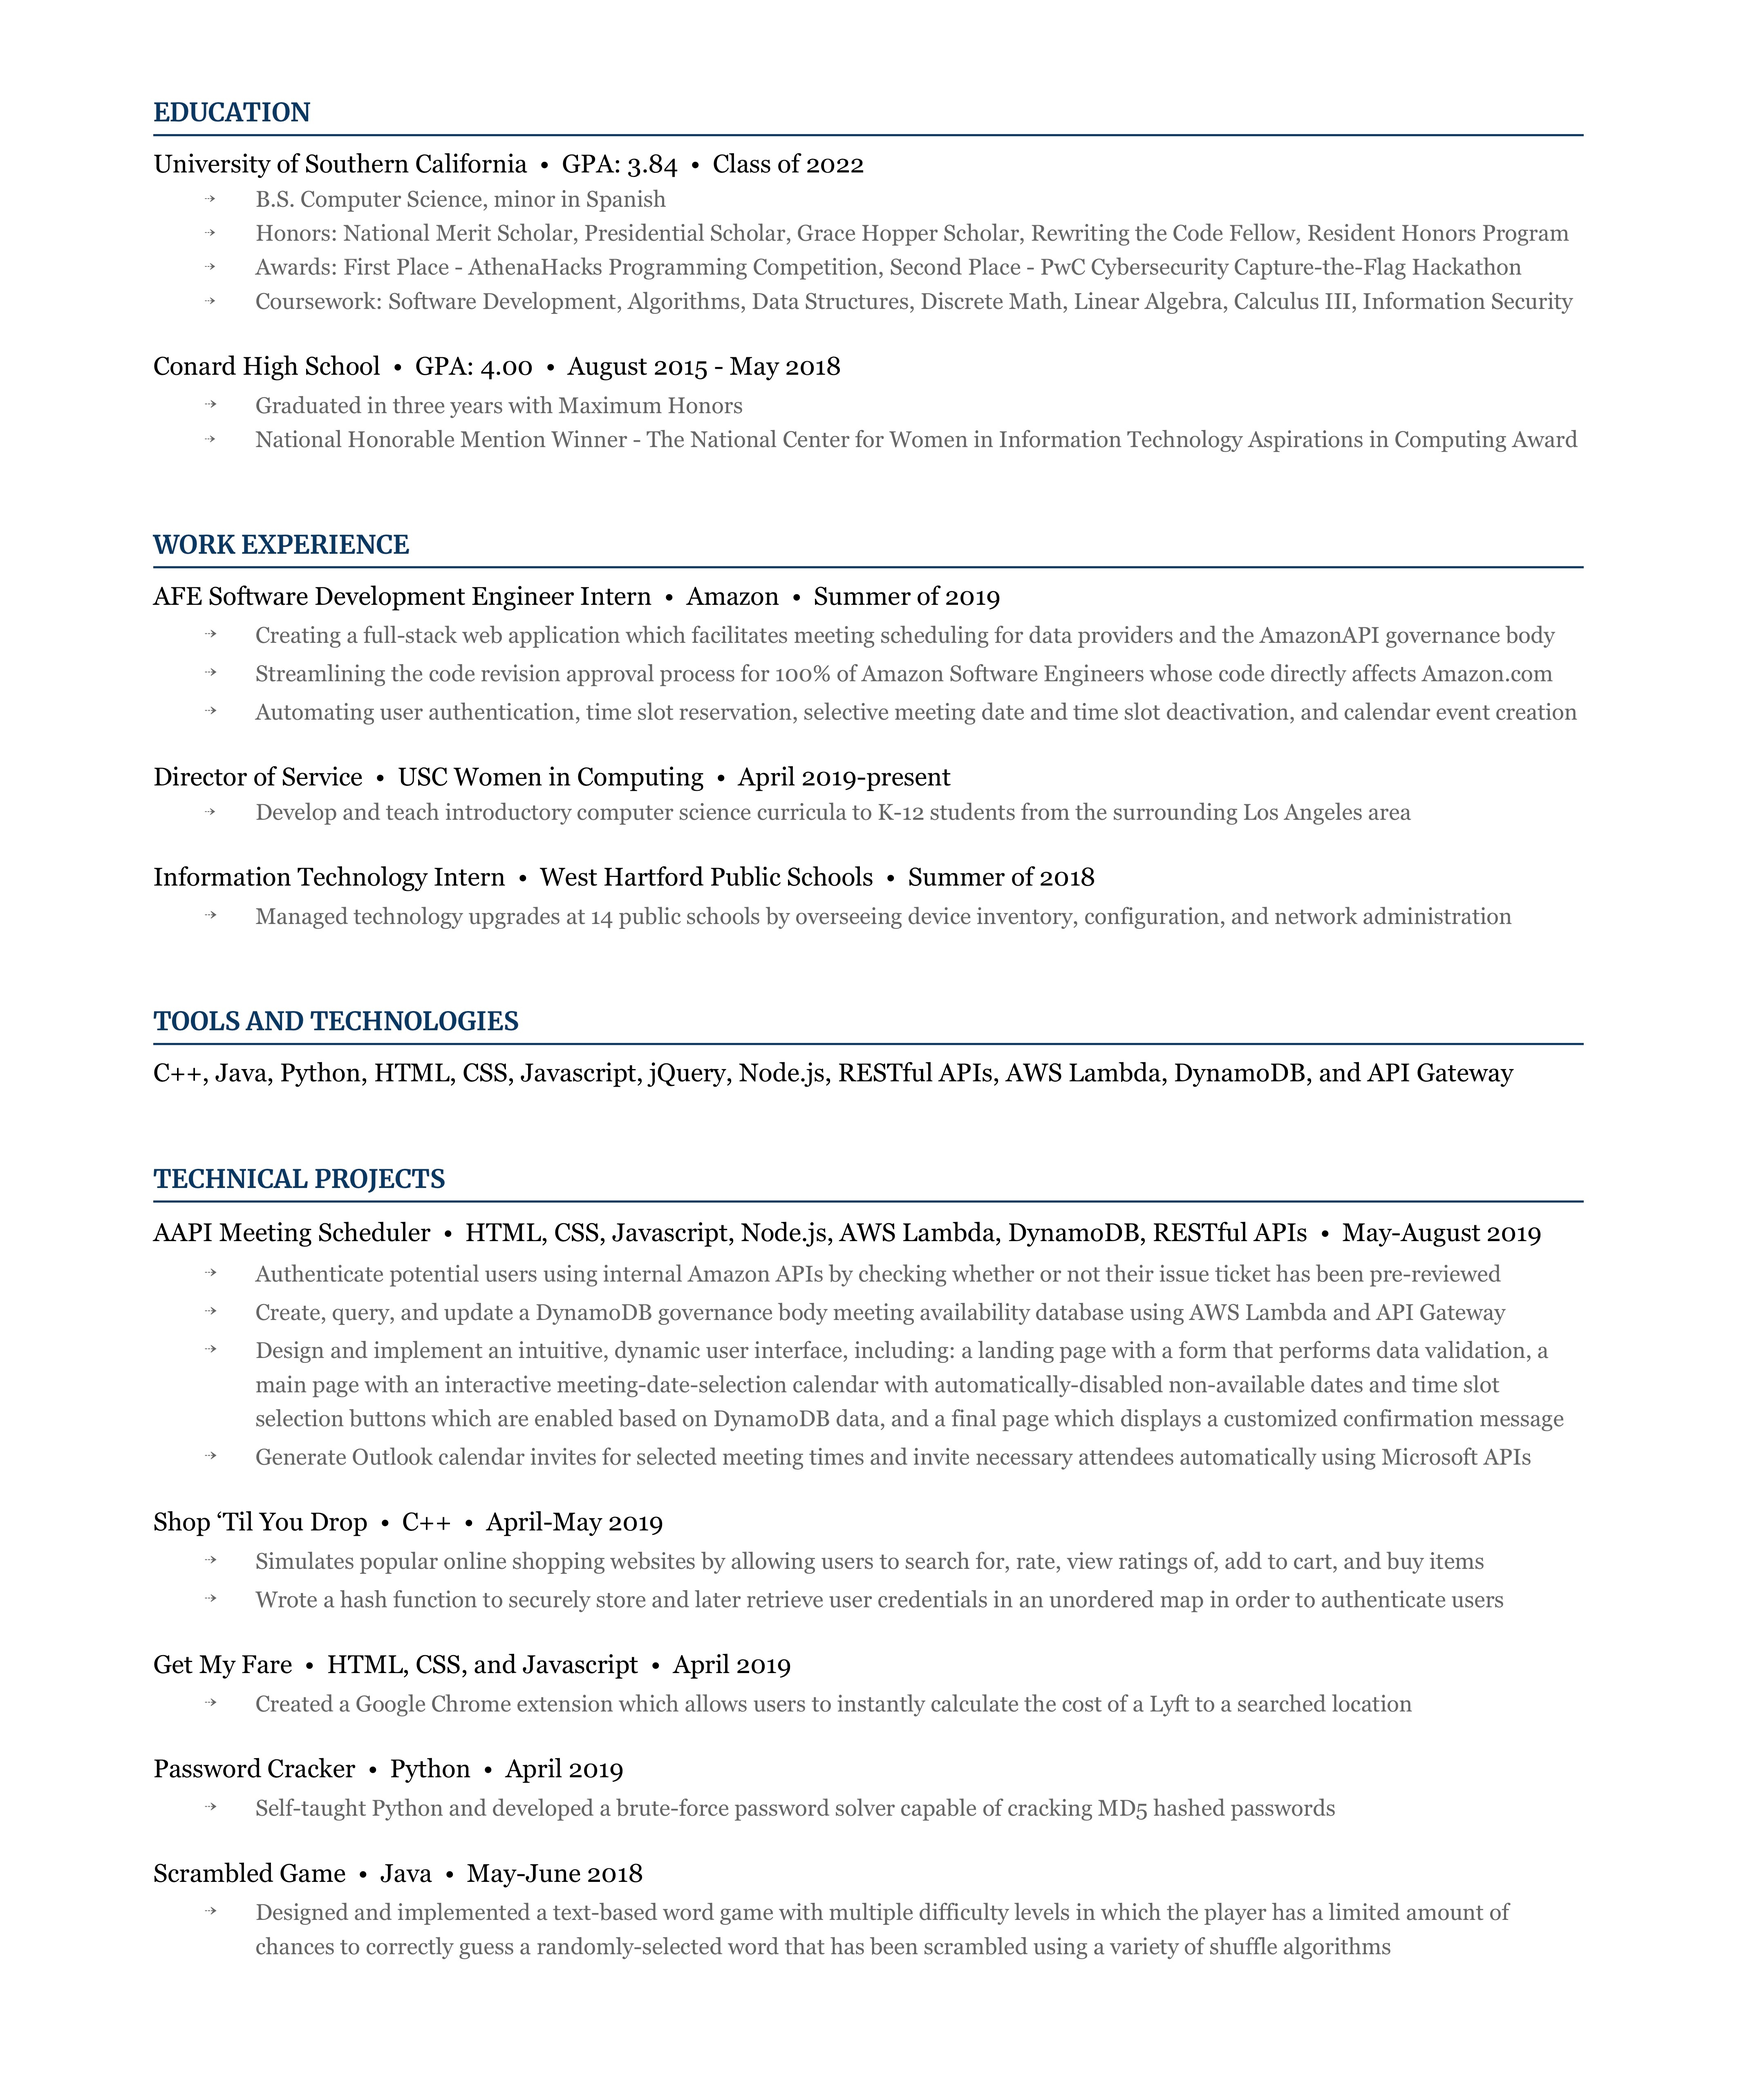
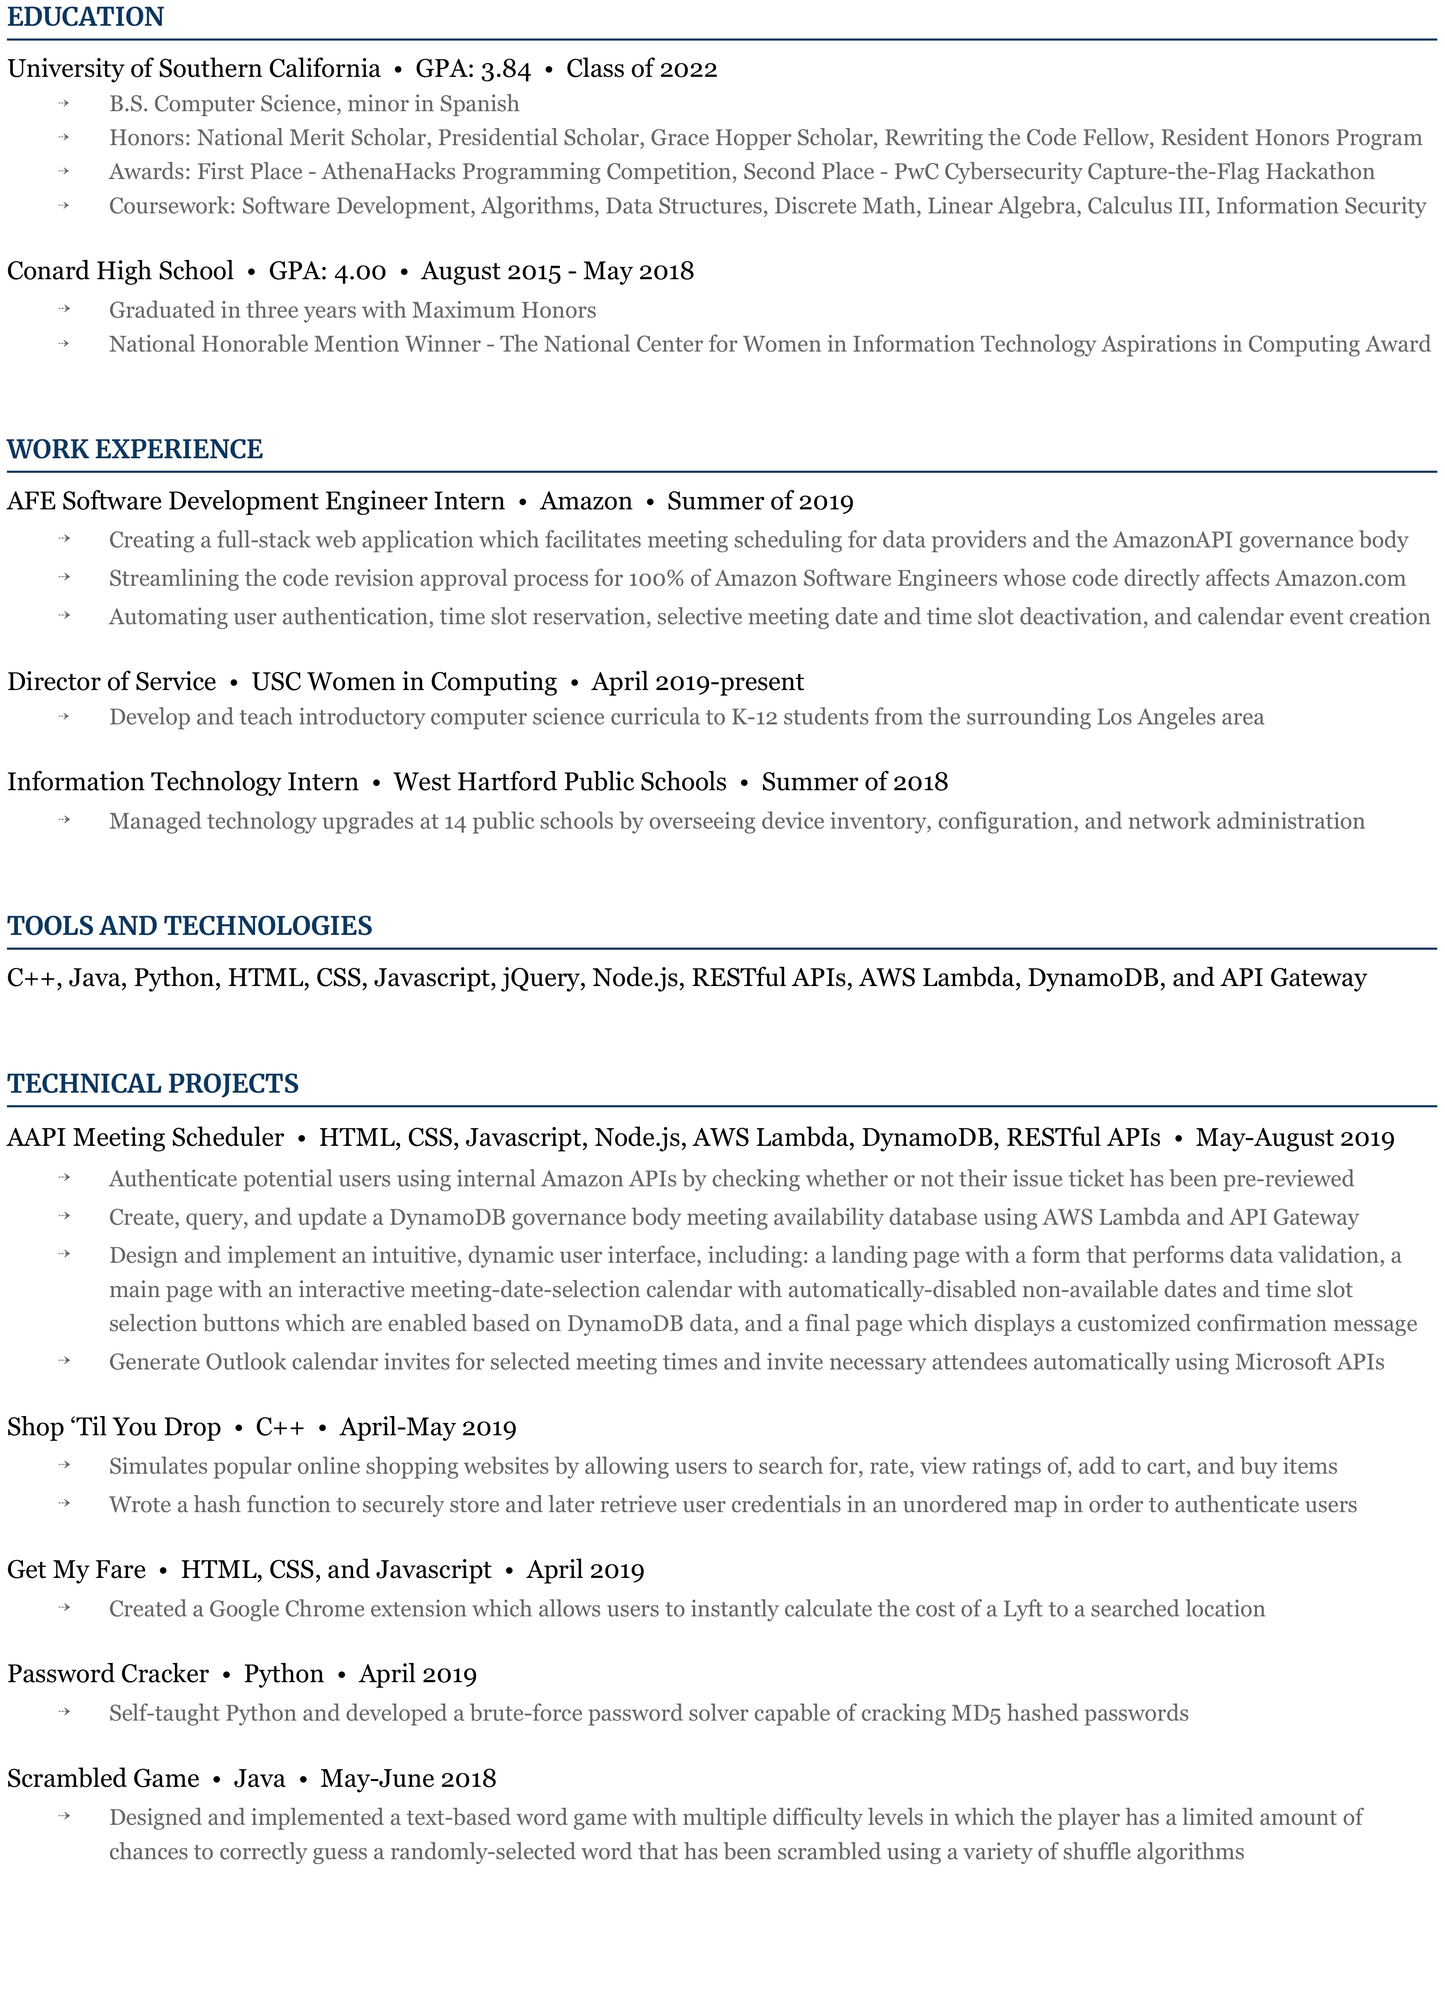
updated resume and nav bar, added text to about page, added contact info

Changed region(s): [[0.0, 0.0, 0.9644, 0.9367]]

diff --git a/about.html b/about.html
@@ -15,21 +15,41 @@
 		<!-- would be cool to have theme change on name click -->
 		<!-- switch stylesheet, resume img, pic of me for new theme -->
 		<ul class="nav-bar">
-			<li><a href="index.html">Home</a></li>
-			<li><a href="about.html">About Me</a></li>
+			<li><a href="about.html">About</a></li>
 			<li><a href="resume.html">Resume</a></li>
 			<li><a href="projects.html">Projects</a></li>
 			<li><a href="news.html">News</a></li>
+			<li><a href="contact.html">Contact</a></li>
 		</ul>
 		<ul class="nav-bar">
-			<li><a href="https://github.com/AvaDeLaCruz" target="_blank">GitHub</a></li>
-			<li><a href="https://www.linkedin.com/in/ava-delacruz/" target="_blank">LinkedIn</a></li>
-			<li><a href="https://www.facebook.com/profile.php?id=100010405683762" target="_blank">Facebook</a></li>
+			<li><a href="https://github.com/AvaDeLaCruz" target="_blank" class="github-link">GitHub</a></li>
+			<li><a href="https://www.linkedin.com/in/ava-delacruz/" target="_blank" class="linkedin-link">LinkedIn</a></li>
+			<li><a href="https://www.facebook.com/people/Ava-De-La-Cruz/100010405683762" target="_blank" class="facebook-link">Facebook</a></li>
 			<li><a href="https://open.spotify.com/user/goaliegirl333dlc?si=h1vnB1RhSR-5GSV3aX1ArQ
-" target="_blank">Spotify</a></li>
+" target="_blank" class="spotify-link">Spotify</a></li>
 		</ul>
+		<h2  class="first-paragraph">	HI, I'M AVA.</h2>
+		<h3>I'm passionate about learning, encouraging diversity in tech through STEM education, and creating projects which help people.</h3>
 		<p>
-			This page is currently under construction.
+			By the end of my sophomore year of high school, I had already exhausted all of the advanced Computer Science classes at my school. During my junior year,
+			I realized I had only two courses left to take in order to graduate: English and Gym. It was then that my love of learning pushed me to apply for college a year early;
+			this way, I could continue to challenge myself academically and learn about what I love: Computer Science.
+			Now, I am a rising sophomore at the University of Southern California pursuing my Bachelor's degree in Computer Science.
+		</p>
+		<p>
+			At USC, I serve as the Director of Service for our Women in Computing organization.
+			I am responsible for developing, organizing, and leading Computer Science outreach efforts, such as coding events, throughout the year.
+			Through this role, I am able to combine my love for teaching with my love for Computer Science,
+			all while working to encourage members of communities that are underrepresented in tech to pursue computing-related careers.
+		</p>
+		<p>
+			This summer, I'm working at Amazon in Seattle as a Software Development Engineer (SDE) Intern through the Amazon Future Engineer program.
+			I'm currently developing a full-stack web application which will facilitate meeting scheduling between Amazon SDEs and the Amazon API Governance Body,
+			the group which approves code changes that directly affect Amazon.com. I love going to work every day because I know that what I'm building will help
+			many other people by ultimately making it easier for engineers to ship code which improves the shopping experience for our customers.
+		</p>
+		<p>
+			Feel free to reach out to me, either by LinkedIn or email, about Software Engineering internships for Summer 2020.
 		</p>
 	</body>
 </html>

diff --git a/index.html b/index.html
@@ -15,22 +15,22 @@
 		<!-- would be cool to have theme change on name click -->
 		<!-- switch stylesheet, resume img, pic of me for new theme -->
 		<ul class="nav-bar">
-			<li><a href="index.html">Home</a></li>
-			<li><a href="about.html">About Me</a></li>
+			<li><a href="about.html">About</a></li>
 			<li><a href="resume.html">Resume</a></li>
 			<li><a href="projects.html">Projects</a></li>
 			<li><a href="news.html">News</a></li>
+			<li><a href="contact.html">Contact</a></li>
 		</ul>
 		<ul class="nav-bar">
-			<li><a href="https://github.com/AvaDeLaCruz" target="_blank">GitHub</a></li>
-			<li><a href="https://www.linkedin.com/in/ava-delacruz/" target="_blank">LinkedIn</a></li>
-			<li><a href="https://www.facebook.com/profile.php?id=100010405683762" target="_blank">Facebook</a></li>
+			<li><a href="https://github.com/AvaDeLaCruz" target="_blank" class="github-link">GitHub</a></li>
+			<li><a href="https://www.linkedin.com/in/ava-delacruz/" target="_blank" class="linkedin-link">LinkedIn</a></li>
+			<li><a href="https://www.facebook.com/people/Ava-De-La-Cruz/100010405683762" target="_blank" class="facebook-link">Facebook</a></li>
 			<li><a href="https://open.spotify.com/user/goaliegirl333dlc?si=h1vnB1RhSR-5GSV3aX1ArQ
-" target="_blank">Spotify</a></li>
+" target="_blank" class="spotify-link">Spotify</a></li>
 		</ul>
-
-		<p>
-			Hi! My name is Ava and this is my website.
-		</p>
+		<h2 class="first-paragraph">
+			HELLO
+		</h2>
+		<p>Welcome to my personal website, built by me.</p>
 	</body>
 </html>

diff --git a/news.html b/news.html
@@ -15,20 +15,20 @@
 		<!-- would be cool to have theme change on name click -->
 		<!-- switch stylesheet, resume img, pic of me for new theme -->
 		<ul class="nav-bar">
-			<li><a href="index.html">Home</a></li>
-			<li><a href="about.html">About Me</a></li>
+			<li><a href="about.html">About</a></li>
 			<li><a href="resume.html">Resume</a></li>
 			<li><a href="projects.html">Projects</a></li>
 			<li><a href="news.html">News</a></li>
+			<li><a href="contact.html">Contact</a></li>
 		</ul>
 		<ul class="nav-bar">
-			<li><a href="https://github.com/AvaDeLaCruz" target="_blank">GitHub</a></li>
-			<li><a href="https://www.linkedin.com/in/ava-delacruz/" target="_blank">LinkedIn</a></li>
-			<li><a href="https://www.facebook.com/profile.php?id=100010405683762" target="_blank">Facebook</a></li>
+			<li><a href="https://github.com/AvaDeLaCruz" target="_blank" class="github-link">GitHub</a></li>
+			<li><a href="https://www.linkedin.com/in/ava-delacruz/" target="_blank" class="linkedin-link">LinkedIn</a></li>
+			<li><a href="https://www.facebook.com/people/Ava-De-La-Cruz/100010405683762" target="_blank" class="facebook-link">Facebook</a></li>
 			<li><a href="https://open.spotify.com/user/goaliegirl333dlc?si=h1vnB1RhSR-5GSV3aX1ArQ
-" target="_blank">Spotify</a></li>
+" target="_blank" class="spotify-link">Spotify</a></li>
 		</ul>
-		<p>
+		<p class="first-paragraph">
 			This page is currently under construction.
 		</p>
 	</body>

diff --git a/projects.html b/projects.html
@@ -15,20 +15,20 @@
 		<!-- would be cool to have theme change on name click -->
 		<!-- switch stylesheet, resume img, pic of me for new theme -->
 		<ul class="nav-bar">
-			<li><a href="index.html">Home</a></li>
-			<li><a href="about.html">About Me</a></li>
+			<li><a href="about.html">About</a></li>
 			<li><a href="resume.html">Resume</a></li>
 			<li><a href="projects.html">Projects</a></li>
 			<li><a href="news.html">News</a></li>
+			<li><a href="contact.html">Contact</a></li>
 		</ul>
 		<ul class="nav-bar">
-			<li><a href="https://github.com/AvaDeLaCruz" target="_blank">GitHub</a></li>
-			<li><a href="https://www.linkedin.com/in/ava-delacruz/" target="_blank">LinkedIn</a></li>
-			<li><a href="https://www.facebook.com/profile.php?id=100010405683762" target="_blank">Facebook</a></li>
+			<li><a href="https://github.com/AvaDeLaCruz" target="_blank" class="github-link">GitHub</a></li>
+			<li><a href="https://www.linkedin.com/in/ava-delacruz/" target="_blank" class="linkedin-link">LinkedIn</a></li>
+			<li><a href="https://www.facebook.com/people/Ava-De-La-Cruz/100010405683762" target="_blank" class="facebook-link">Facebook</a></li>
 			<li><a href="https://open.spotify.com/user/goaliegirl333dlc?si=h1vnB1RhSR-5GSV3aX1ArQ
-" target="_blank">Spotify</a></li>
+" target="_blank" class="spotify-link">Spotify</a></li>
 		</ul>
-		<p>
+		<p class="first-paragraph">
 			This page is currently under construction.
 		</p>
 	</body>

diff --git a/style.css b/style.css
@@ -3,6 +3,10 @@ html{
   color: #073763;
 }
 
+body{
+  margin: 0 12.5%;
+}
+
 h1{
   font-family: 'Merriweather';
   text-align: center;
@@ -13,6 +17,37 @@ h1:hover{
   /* color: #D77771; */
   /* transition: .25s; */
   cursor: default;
+}
+
+h2{
+  font-family: 'Merriweather';
+  font-size: 20px;
+  margin: 50px auto 0px auto;
+}
+
+h2.first-paragraph{
+  font-family: 'Merriweather';
+  font-size: 20px;
+  margin: 50px auto 0px auto;
+}
+
+.first-paragraph{
+  margin: 50px auto 25px auto;
+}
+
+h3{
+  font: Georgia;
+  font-size: 18px;
+  font-weight: normal;
+  color: black;
+  margin: 5px auto;
+}
+
+p{
+  margin: 25px auto;
+  font-size: 16px;
+  color: grey;
+  /* line-height: 18px; */
 }
 
 .image-cropper {
@@ -58,11 +93,34 @@ h1:hover{
 
 .resume-display{
   display: block;
-  margin: 0 auto;
+  margin: 50px auto 0px auto;
   border: none;
-  width: 75%;
+  width: 100%;
 }
 
-p{
-  margin: 50px 25%;
+a.github-link:hover{
+  color: #767676;
+}
+
+a.linkedin-link:hover{
+  color: #0077B5;
+}
+
+a.facebook-link:hover{
+  color: #3C5A99;
+}
+
+a.spotify-link:hover{
+  color: #1DB954;
+}
+
+a.my-email{
+    text-decoration: none;
+    color: grey;
+}
+
+a.my-email:hover{
+    text-decoration: none;
+    color: #D77771;
+    transition: .25s;
 }

diff --git a/contact.html b/contact.html
@@ -11,7 +11,9 @@
 		<div class="image-cropper">
 			<img src="Ava.jpeg" alt="photo of me" class="photo-of-me" />
 		</div>
-    <h1>AVA DELACRUZ</h1>
+		<h1>AVA DELACRUZ</h1>
+		<!-- would be cool to have theme change on name click -->
+		<!-- switch stylesheet, resume img, pic of me for new theme -->
 		<ul class="nav-bar">
 			<li><a href="about.html">About</a></li>
 			<li><a href="resume.html">Resume</a></li>
@@ -26,6 +28,8 @@
 			<li><a href="https://open.spotify.com/user/goaliegirl333dlc?si=h1vnB1RhSR-5GSV3aX1ArQ
 " target="_blank" class="spotify-link">Spotify</a></li>
 		</ul>
-    <img class="resume-display" src="Ava-DeLaCruz-Resume.jpeg" alt="My Resume">
+		<h2 class="first-paragraph">CONTACT INFORMATION</h2>
+		<h3>Feel free to reach out to me, I'd love to chat! </h3>
+		<p>Email:	<a href="mailto:avadelac@usc.edu?subject=feedback" class="my-email">avadelac@usc.edu</a></p>
 	</body>
 </html>
